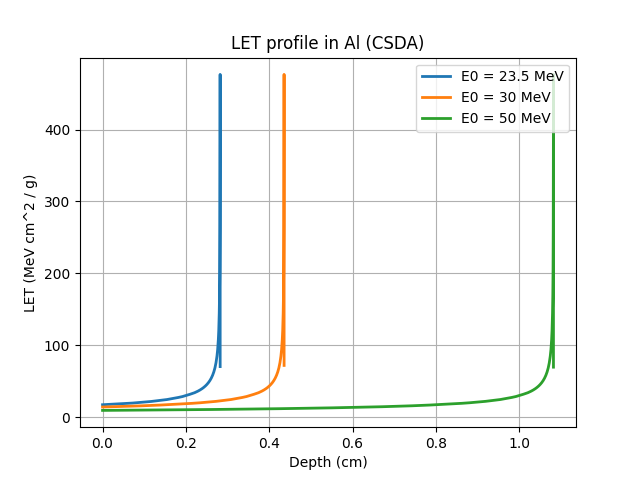
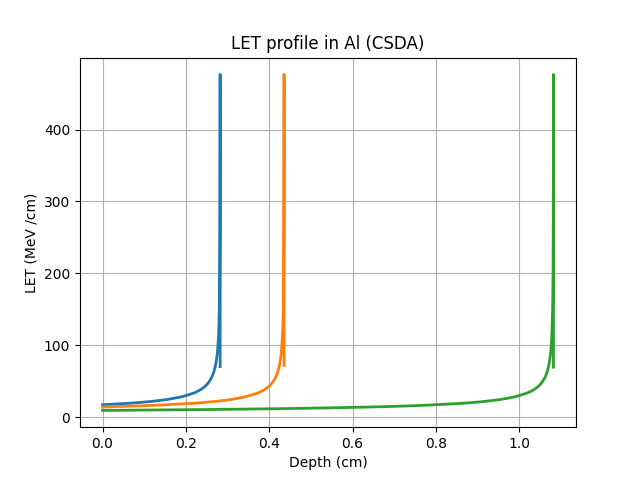
update particle material interaction

Changed region(s): [[0.6562, 0.125, 0.875, 0.2812], [0.0312, 0.375, 0.0625, 0.6562]]

diff --git a/Stopping_power_to_LET.py b/Stopping_power_to_LET.py
@@ -60,38 +60,17 @@ for h in range(len(E0)):
 
 # Convert to numpy arrays (ragged → object)
 depth_array = np.array(depth_list, dtype=object)
-LET_array = np.array(LET_list*2.7, dtype=object)
+LET_array = np.array(LET_list, dtype=object)
 
 # Plot
 plt.figure()
 for i in range(3):
     depth_cm = np.array(depth_array[i]) * 1e-7
     LET_vals = np.array(LET_array[i])
-    plt.plot(depth_cm, LET_vals, linewidth=2, label=f'E0 = {E0[i]} MeV')
-
+    plt.plot(depth_cm, LET_vals, linewidth=2)
 
 plt.xlabel('Depth (cm)')
-plt.ylabel('LET (MeV cm^2 / g)')
+plt.ylabel('LET (MeV /cm)')
 plt.title('LET profile in Al (CSDA)')
-plt.legend()
 plt.grid()
 plt.show()
-
-# #Combine data 
-#combined = []
-#for i in range(3):
-#    depth = np.array(depth_array[i],dtype=float)
-#    LET_vals = np.array(LET_array[i],dtype=float)
-#    
-#    # Pad to same length
-#    max_len = max(len(depth), len(LET_vals))
-#    depth = np.pad(depth, (0, max_len - len(depth)), constant_values=np.nan)
-#    LET_vals = np.pad(LET_vals, (0, max_len - len(LET_vals)), constant_values=np.nan)
-#
-#    combined.append(depth)
-#    combined.append(LET_vals)
-# #Stack and transpose
-#LET_output = np.vstack(combined).T
-#
-## Save to CSV
-#pd.DataFrame(LET_output).to_csv("Linear energy transfer Al.csv", index=False)

diff --git a/Particle material interaction.md b/Particle material interaction.md
@@ -9,10 +9,9 @@ _Please note that all radiation effects on electronics, such as TID, TNID and SE
 Unit: $MeV cm^2/g$\
 Physics Definition：\
 The mean energy loss of an energetic particle per unit path length in a given material\
-Stopping power is obtained from the NIST STAR database:：\
+Stopping power is obtained from the NIST STAR database：\
 https://www.nist.gov/pml/stopping-power-range-tables-electrons-protons-and-helium-ions\
 <img src="image/aluminum_stopping_power.png" width="60%">\
-The y axis, stopping power can be explain as $Energy [MeV] /Density[(g/cm^3)] \times thickness(cm)$\
 Reference：[Inokuti, M., & Argonne National Lab., IL (United States). (1995). Stopping power, its meaning, and its general characteristics.](<Reference document/Stopping power its meaning and its general characteristics.pdf>)
 
 ## Linear Energy Transfer
@@ -55,22 +54,25 @@ L. C. Chang et al., "The Deep Space Radiation Probe: Development of a first luna
 + PCB：1.6 mm 
 + RADFET：400 nm SiO2
 ### Model
-1. DSRP Simple Model (Based on Geant4 basic example B1) 
+1. DSRP Simple Model (Based on [Geant4 basic example B1](<https://geant4-userdoc.web.cern.ch/Doxygen/examples_doc/html/ExampleB1.html>))
 [Geant4 code](<DSRP reduced model>)\
  a. [DetectorConstruction](<DSRP reduced model/src/DetectorConstruction.cc>)\
  b. [PrimaryGeneratorAction](<DSRP reduced model/src/PrimaryGeneratorAction.cc>)\
  c. [Physicslist](<DSRP reduced model/exampleB1.cc>)
-2. DSRP Model changing incident angle (Based on Geant4 basic example B5)
- [Geant4 code](<DSRP model adjust the incident angle>)
+2. DSRP Model changing incident angle (Based on [Geant4 basic example B5](<https://geant4-userdoc.web.cern.ch/Doxygen/examples_doc/html/ExampleB5.html>))
+ [Geant4 code](<DSRP model adjust the incident angle>)\
+ a. [DetectorConstruction](<DSRP model adjust the incident angle/src/DetectorConstruction.cc>)\
+ b. [PrimaryGeneratorAction](<DSRP model adjust the incident angle/src/PrimaryGeneratorAction.cc>)\
+ c. [Physicslist](<DSRP model adjust the incident angle/exampleB1.cc>)
 ### Results
 ---
-The figure shows the proton, electron and helium interaction with material\
-From Geant4 simulation we can observe the secondary particles contribution and some fun phonomenon
-+ The electron possess obviouse scattering effect, the gamma ray as secondary radiaiton can be observed. Since electron has lowest stopping power, it can transverse the material most easily
-+ When proton and helium transverse the material, electron as secondary particle would be generated which can't be astimate as the simple calculation as we discuss previously
+The figure shows the interaction of protons, electrons and helium with material.
+From the Geant4 simulation, we can observe the contribution of secondary particles and some interesting phenomena.
++ The electron has an obvious scattering effect and the gamma ray, as a secondary radiation, can be observed. Since the electron has the lowest stopping power, it can transverse the material most easily.
++ When protons and helium traverse the material, electrons are generated as secondary particles, which cannot be estimated using the simple calculations we discussed previously.
 ![Geant4 simulation results](<image/geant4 simulation.png>)
 ---
-The figure shows the geant4 simulation results with proton as incident particle
+Figure (b) shows the GEANT4 simulation results for protons as the incident particle. The incident proton energy must be greater than 22 MeV to traverse the 2.5 mm aluminium shielding, which is consistent with the LET obtained by CSDA, as shown in Figure (c).The decrease in energy deposition when the incident energy increases can be explained by integrating the LET profile.
 <img src="image/Al stopping power_energy deposited_LET profile subplot version thesis v update.png" width="80%">\
 Reference：
 1. J. Allison et al., "Geant4 developments and applications," IEEE Transactions on Nuclear Science, vol. 53, no. 1, pp. 270-278, Feb. 2006, doi: 10.1109/TNS.2006.869826.